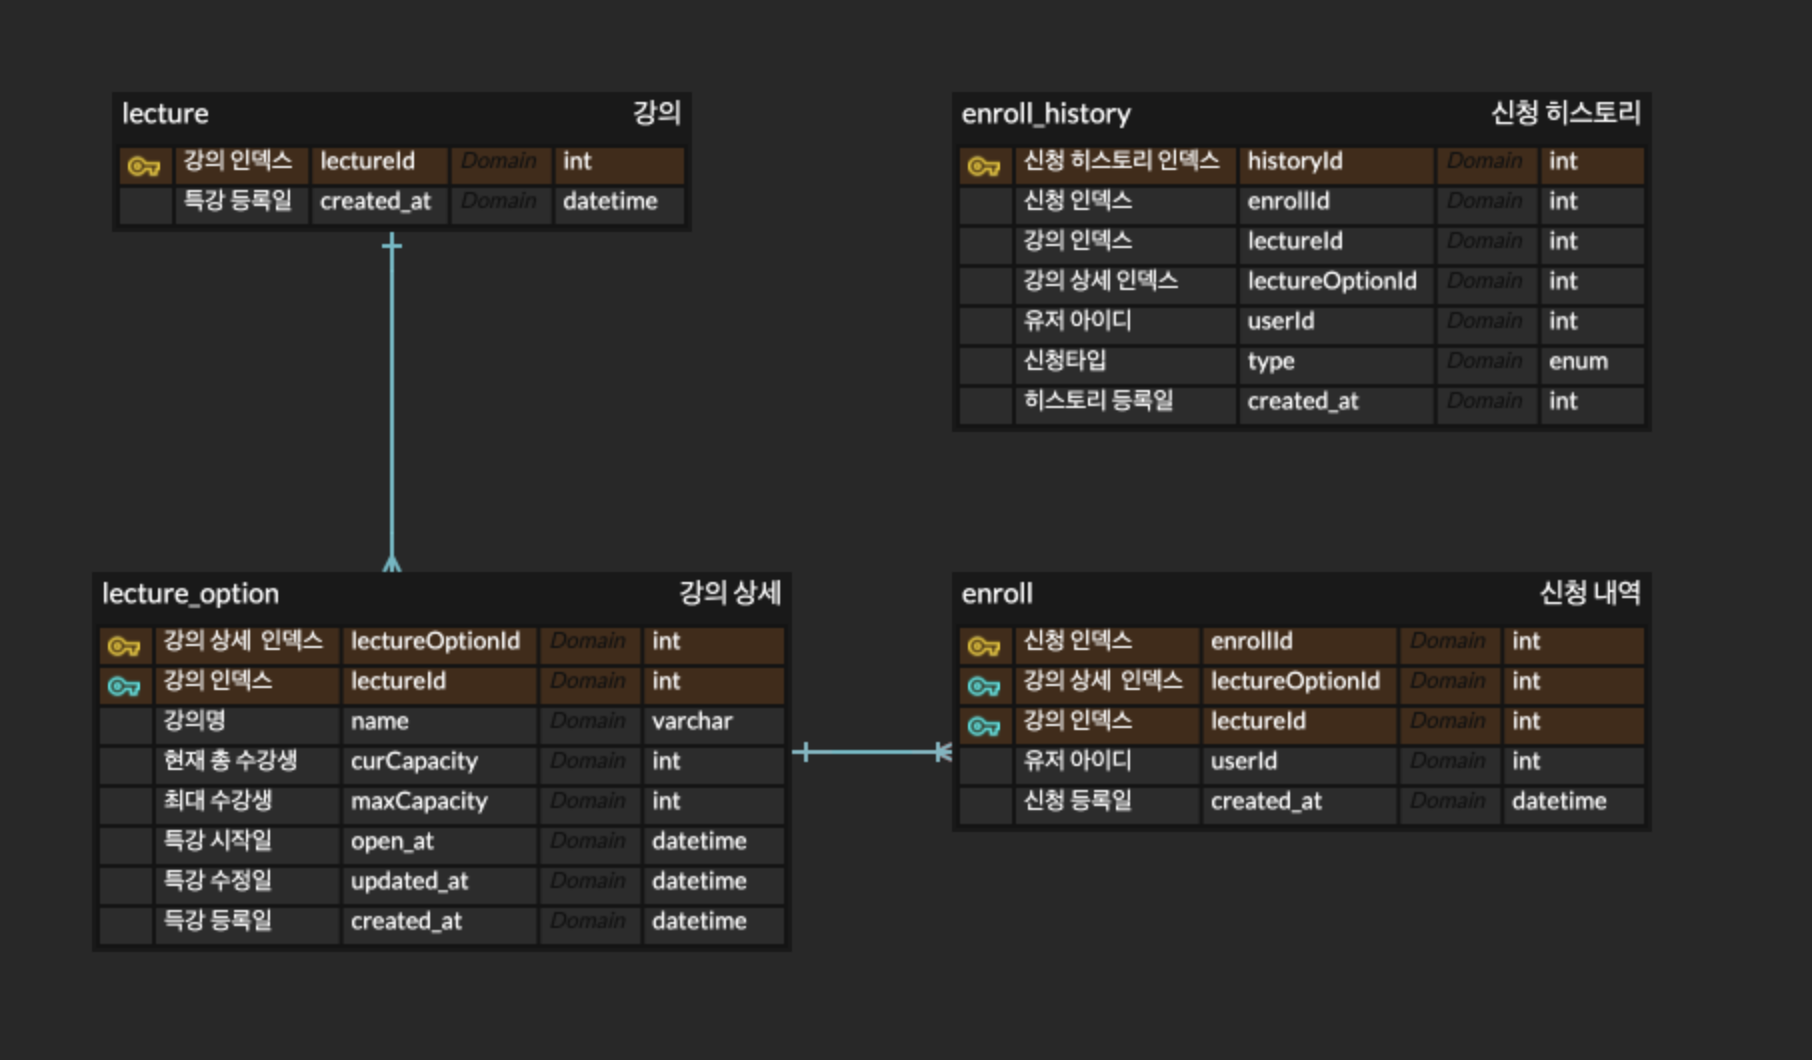
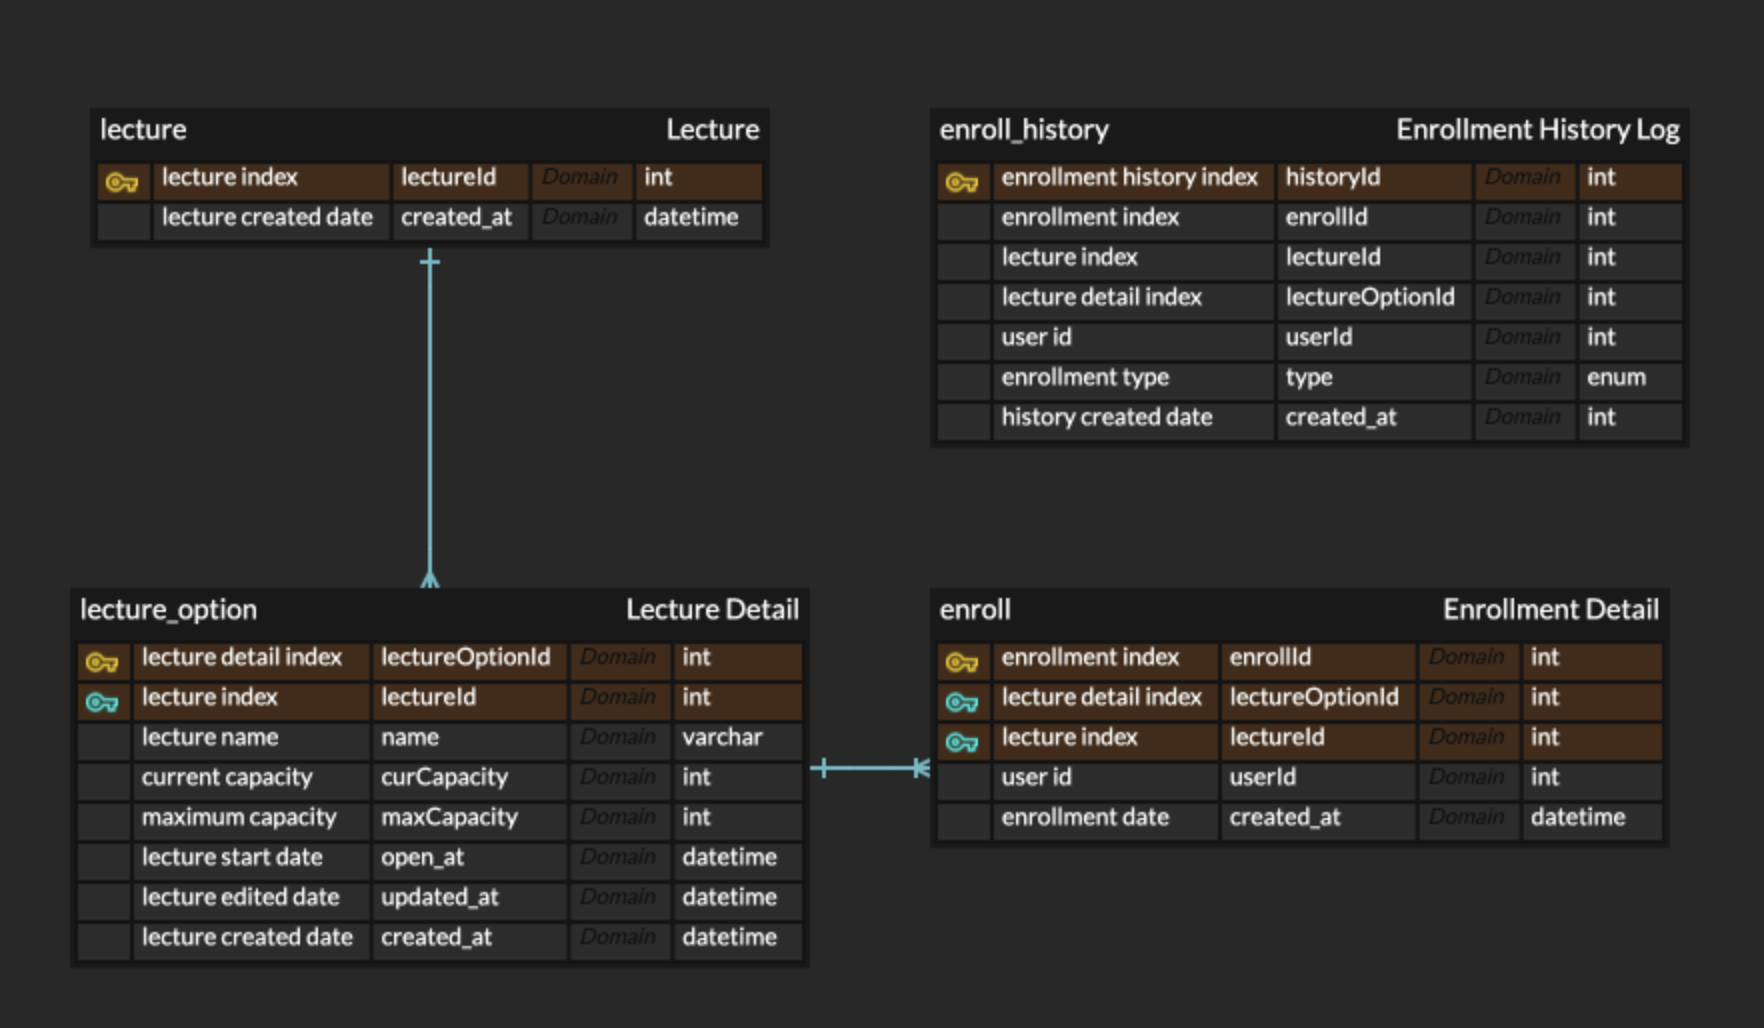
ERD in English

Changed region(s): [[0.0312, 0.249, 0.9666, 0.9339], [0.53, 0.0934, 0.9666, 0.4358], [0.0312, 0.0934, 0.4365, 0.249]]

diff --git a/README.md b/README.md
@@ -1,11 +1,12 @@
 # hhp02_architecture
 
 Task 3
+
+- ERD for Lecture Registration System
 ![erd.png](erd.png)
-- ERD 작성의 당위성 여부
 
 Task 4
-- 확장 가능한 엔티티 구조를 고려하였는지
-    - 특강 테이블, 신청 히스토리 테이블에 대한 구조
-    - 적절히 각 도메인에 대한 서비스의 책임이 분리되었는지
-![erd_task4_02.png](erd_task4_02.png)
+- Have you considered building extensible data model? 
+- Are service responsibilities for each domain separated? 
+  - Structure for lecture and enrollment history table
+  ![erd_task4_02.png](erd_task4_02.png)
